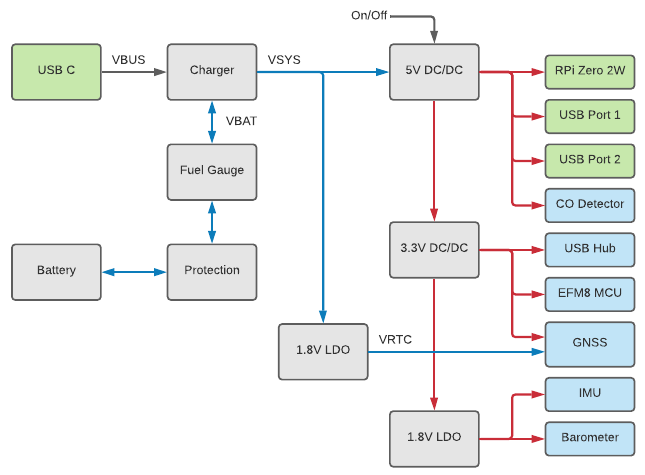
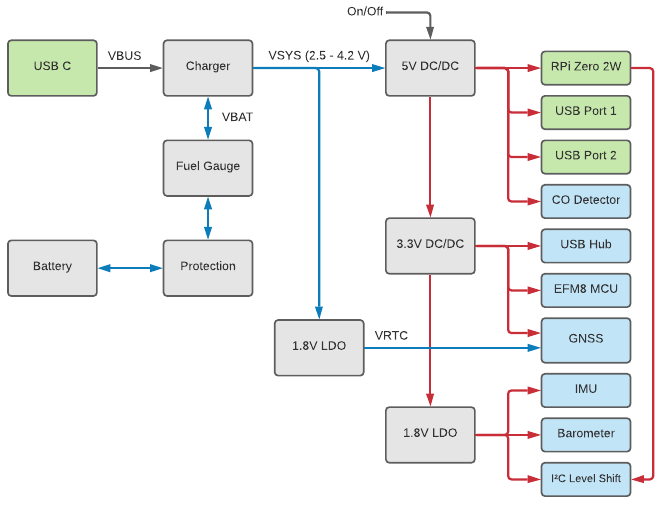
docs: Add I2C level shifter

Changed region(s): [[0.0, 0.0, 0.9922, 1.0]]

diff --git a/README.md b/README.md
@@ -8,9 +8,14 @@ This project is based on the great work of:
 - [Stratux (cyoung/stratux)](https://github.com/cyoung/stratux)
 - [Stratux - European edition (b3nn0/stratux)](https://github.com/b3nn0/stratux)
 
+The Stratux software for this project is mostly untouched. The main addition is
+a more user friendly build system with lots configuration and customization
+options. It also has the firewall enabled and does more cleanup and tweaking to
+enable faster boot time and lower power consumption.
+
 Read more about the Stratux project at [stratux.me](http://stratux.me/) and at [dross:aviation](https://dross.net/aviation/).
 
-Note that this does not replace any primary systems and should only be used as a complement for increased safety and situational awareness.
+Note that this **does not** replace any primary systems and should only be used as a complement for increased safety and situational awareness.
 
 > THE SOFTWARE IS PROVIDED “AS IS”, WITHOUT WARRANTY OF ANY KIND, EXPRESS OR IMPLIED, INCLUDING BUT NOT LIMITED TO THE WARRANTIES OF MERCHANTABILITY, FITNESS FOR A PARTICULAR PURPOSE AND NONINFRINGEMENT.
 
@@ -28,7 +33,7 @@ Note that this does not replace any primary systems and should only be used as a
 - High temperature and low temperature charge monitoring
 - Fuel gauge that monitors the battery state of charge and aging, [TI BQ27441](https://www.ti.com/product/BQ27441-G1)
 - Hard/soft power switch that first signals the Raspberry to shutdown cleanly and if that takes to long, power will be cut
-- Optimized fo a Raspberry Pi Zero 2
+- Optimized for a Raspberry Pi Zero 2
 - Watchdog that resets the Raspberry Pi if it has stopped
 - Starts in about 11 seconds
 - Five LED indicators
@@ -69,17 +74,17 @@ The integrated 1090 MHz antenna for ADS-B data is a simple dipole design. This h
 
 ![Power management diagram](docs/images/stratux-zero-power-management.png)
 
-There is a DC/DC regulator that takes power from the battery or external USB-C and outputs the main 5 V bus. This bus powers the Raspberry Pi through the GPIO and provides power to the two USB A connectors.
+There is a DC/DC regulator that takes power from the battery or external USB-C and outputs the main 5 V supply. This 5 V powers the Raspberry Pi through the GPIO header and provides power to the two USB A connectors.
 
 From the 5 V, a 3.3 V and 1.8 V is created to power various circuitry.
 
 The 5 V regulator can be enabled from three sources.
 
-- The physical power switch will always keep the 5 V enabled.
-- When external power is provided on the USB-C. However, the EFM8 will keep the Raspberry Pi from starting using the RUN-pin if the physical power switch is in off.
-- The EFM8 can keep the 5 V on to allow the Raspberry Pi to power down cleanly.
+1. The physical power switch will always keep the 5 V active.
+2. When external power is provided on the USB-C. However, the EFM8 will keep the Raspberry Pi from starting using the RUN-pin if the physical power switch is in off.
+3. The EFM8 can keep the 5 V active to allow the Raspberry Pi to power down cleanly.
 
-An additional 1.8 V is created from the battery to provide a backup power to the u-blox CAM-M8Q to allow for a faster startup and satellite lock.
+An additional 1.8 V is created from the battery to provide a backup power to the u-blox CAM-M8Q. This enable a faster startup and satellite lock.
 
 Multiple test points can be found on the backside of the PCB.
 
@@ -148,7 +153,7 @@ To enable SSH access, run:
 sudo packer build -var enable_ssh=true src/stratux-zero-image
 ```
 
-> If you plan on enabling SSH, it is also a good idea to change `raspios_username` and `raspios_password`.
+> If you plan on enabling SSH, it is a good idea to change the `raspios_username` and `raspios_password` variables.
 
 To enable developer mode, run:
 
@@ -156,7 +161,7 @@ To enable developer mode, run:
 sudo packer build -var enable_developer_mode=true src/stratux-zero-image
 ```
 
-The `-var` can be used multiple times and variables can also be passed as a configuration file or as environment variables.
+The `-var` can be used multiple times and variables can also be passed as JSON or HCL configuration files or as environment variables.
 
 For a full list of variables and default values, see the [variables.pkr.hcl](src/stratux-zero-image/variables.pkr.hcl).
 
